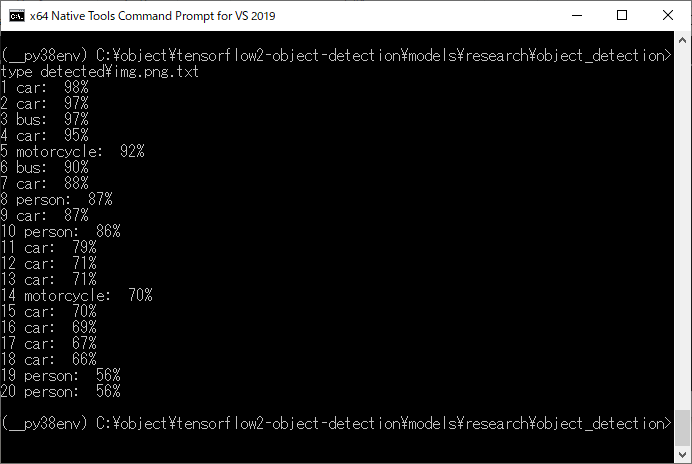
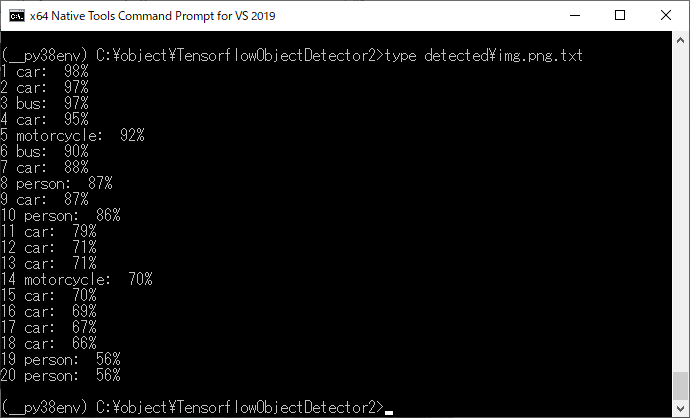
Updated TensorflowObjectDetector2 to accept filters.

diff --git a/README.md b/README.md
@@ -71,4 +71,10 @@ python TensorflowObjectDetector2.py .\images\img.png detected [person,car]
 <img src="./detected/person_car_img.png" width="80%">
 <br>
 
+
+<br>
+<img src="./detected/person_car_img.png.txt.png" width="80%">
+<br>
+
+
  
